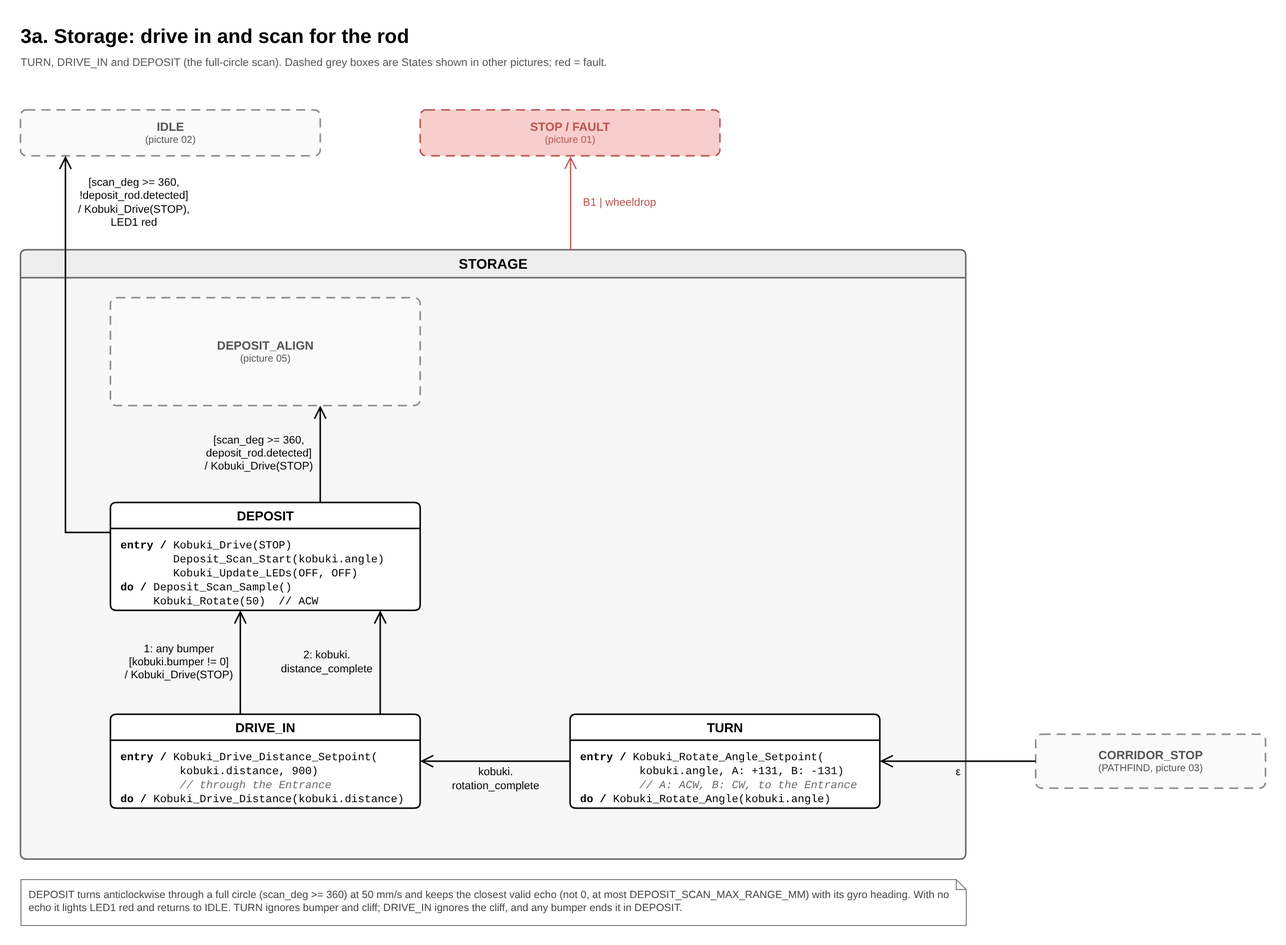
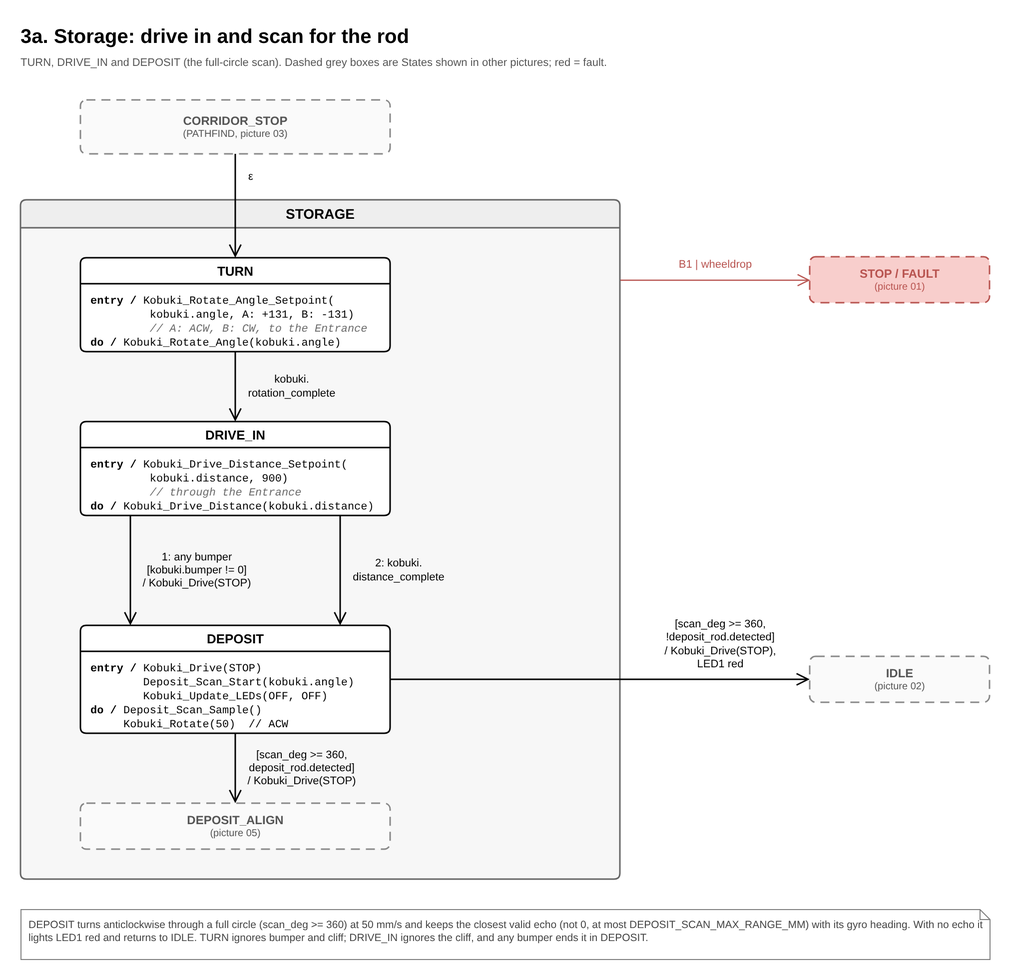
docs: re-lay the FSM pictures as compact vertical stacks
Stack the States in a single column (two where a loop needs it), drop the
empty canvas around them and route the edges again with the same labels, so
the six PNGs are narrow and tall and stay readable when pasted into a report.

Claude-Session: https://claude.ai/code/session_012MSpm5EoDopscPbK9iYYjw

diff --git a/docs/amu_fsm_split.py b/docs/amu_fsm_split.py
@@ -1,5 +1,5 @@
 #!/usr/bin/env python3
-"""Split the AMU FSM diagram into six small PNGs that are easy to read (docs/fsm/*.png).
+"""Split the AMU FSM diagram into six compact, portrait PNGs that are easy to read and paste into a report (docs/fsm/*.png).
 
 Usage:  python3 docs/amu_fsm_split.py [--no-render] [--keep-drawio] [out_dir]
         (default out_dir: docs/fsm; needs `node` + `playwright` for the PNGs, see docs/amu_fsm_render.js)
@@ -12,7 +12,9 @@ that cannot be copied are drawn here:
   * a dashed grey box is a State (or IDLE / STOP / FAULT) that lives in another picture; the edge
     that leaves the picture ends on it, with its original label;
   * a view that cuts through STORAGE or PATHFIND redraws that composite around the States it shows;
-  * 01_overview.png is drawn from scratch (phases only), because the full diagram has no such level.
+  * 01_overview.png is drawn from scratch (phases only), because the full diagram has no such level;
+  * every view re-lays the States out in a tight, mostly vertical stack (the full diagram is one wide
+    canvas), and routes the edges again with the same labels, so the pictures stay small when pasted.
 
 The views:  01_overview  02_search_orient  03_pathfind  04_storage_entry_scan
             05_storage_align_refine  06_storage_distance_adjust
@@ -161,9 +163,11 @@ class View:
         self.under.append(c)
         self.reg[cid] = (x, y, w, h)
 
-    def state(self, cid):
-        """A real State box with its body, at its absolute position."""
+    def state(self, cid, at=None):
+        """A real State box with its body, at its absolute position (or at `at` = (x, y))."""
         x, y, w, h = sabs(cid)
+        if at:
+            x, y = at
         c = copy.deepcopy(S[cid])
         c.set("parent", "1")
         g = c.find("mxGeometry")
@@ -190,9 +194,35 @@ class View:
         v = "<b>%s</b><br><font style=\"font-size:10px\">%s</font>" % (html.escape(name), html.escape(where))
         self._cell(self.boxes, gid, v, GHOST_FAULT if fault else GHOST, x, y, w, h)
 
-    def ghost_of(self, cid, where):
-        x, y, w, h = sabs(cid)
-        self.ghost(cid, x, y, w, h, named(cid), where)
+    def ghost_of(self, cid, where, at=None, h=None):
+        x, y, w, h0 = sabs(cid)
+        if at:
+            x, y = at
+        self.ghost(cid, x, y, w, h or h0, named(cid), where)
+
+    def fault_bar(self, x, y, w, h):
+        """The red STOP / FAULT State, any size."""
+        self.composite("fault", "fault", x, y, w, h)
+        b = copy.deepcopy(S["fault_body"])
+        b.find("mxGeometry").set("width", "%g" % w)
+        self.boxes.append(b)
+
+    def pt(self, cid, side, off=None):
+        """Point on a registered box: side t/b/l/r; off = x (t/b) or y (l/r), default the middle."""
+        x, y, w, h = self.reg[cid]
+        if side == "t":
+            return (x + w / 2 if off is None else off, y)
+        if side == "b":
+            return (x + w / 2 if off is None else off, y + h)
+        if side == "l":
+            return (x, y + h / 2 if off is None else off)
+        return (x + w, y + h / 2 if off is None else off)
+
+    def above(self, x1, x2, y, value, gap=6):
+        return (x1 + x2) / 2, y - gap - lsize(lines_of(value))[1] / 2
+
+    def below(self, x1, x2, y, value, gap=6):
+        return (x1 + x2) / 2, y + gap + lsize(lines_of(value))[1] / 2
 
     # -- edges
     def keep(self, eid):
@@ -258,52 +288,52 @@ class View:
 def overview():
     v = View("01_overview", "AMU parcel-run FSM: the big picture",
              "Phases only. Arrows are the main path; red arrows are faults. The next pictures zoom into each "
-             "phase, one State per box, in the same notation.", 40, 20, 1500)
+             "phase, one State per box, in the same notation.", 40, 20, 920)
     BOX = ("rounded=1;absoluteArcSize=1;arcSize=12;html=1;whiteSpace=wrap;verticalAlign=top;align=center;"
            "spacingTop=8;spacingLeft=8;spacingRight=8;fontSize=11;fontFamily=Helvetica;strokeWidth=1.5;")
-    Y, H, W = 230, 150, 250
-    xs = [120, 500, 880, 1260, 1640]
+    W, H, X = 330, 100, 260
+    cx = X + W / 2
+    ys = [150, 320, 490, 660, 830]
     spec = [
         ("o_idle", "IDLE", "waits for B0 (start button).<br>Leaving it resets the run.", "#ffffff", "#000000"),
-        ("o_search", "SEARCH phase", "SEARCH<br>IDENTIFY<br><i>spin, find the bollard, learn Layout A / B</i>",
+        ("o_search", "SEARCH phase", "SEARCH · IDENTIFY<br><i>spin, find the bollard, learn Layout A / B</i>",
          "#eeeeee", "#666666"),
-        ("o_orient", "ORIENT", "turn to the corridor:<br>A -75°, B +108°<br><i>heading is saved</i>", "#ffffff", "#000000"),
+        ("o_orient", "ORIENT", "turn to the corridor: A -75°, B +108°<br><i>heading is saved</i>", "#ffffff", "#000000"),
         ("o_path", "PATHFIND", "DRIVE · REVERSE · ROTATE<br>CORRIDOR_REVERSE · CORRIDOR_TURN<br>CORRIDOR_STOP",
          "#eeeeee", "#666666"),
         ("o_store", "STORAGE", "TURN · DRIVE_IN · DEPOSIT<br>DEPOSIT_ALIGN · DEPOSIT_REFINE_*<br>"
                                "DEPOSIT_DISTANCE / _REVERSE / _APPROACH", "#eeeeee", "#666666"),
     ]
-    for (cid, name, body, fill, stroke), x in zip(spec, xs):
+    for (cid, name, body, fill, stroke), y in zip(spec, ys):
         v._cell(v.boxes, cid, "<b style=\"font-size:14px\">%s</b><br><br>%s" % (name, body),
-                BOX + "fillColor=%s;strokeColor=%s;" % (fill, stroke), x, Y, W, H)
-    v._cell(v.boxes, "o_start", "", "ellipse;html=1;fillColor=#000000;strokeColor=#000000;strokeWidth=1.5;", 50, Y + H / 2 - 8, 16, 16)
-    FY = 500
+                BOX + "fillColor=%s;strokeColor=%s;" % (fill, stroke), X, y, W, H)
+    v._cell(v.boxes, "o_start", "", "ellipse;html=1;fillColor=#000000;strokeColor=#000000;strokeWidth=1.5;",
+            cx - 8, 106, 16, 16)
+    fx, fw, fy = 790, 210, 320
     v._cell(v.boxes, "o_fault", "<b style=\"font-size:14px\">STOP / FAULT</b><br><b>entry /</b> "
             "<font face=\"Courier New\">Kobuki_Drive(STOP)</font>",
-            BOX + "fillColor=#f8cecc;strokeColor=#b85450;spacingTop=4;", 500, FY, 1390, 56)
+            BOX + "fillColor=#f8cecc;strokeColor=#b85450;", fx, fy, fw, ys[4] + H / 2 + 40 - fy)
 
     def mk(eid, s, t, pts, lines, color=BLACK, at=None, sw=1.5):
-        S[eid] = ET.Element("mxCell", style="strokeColor=%s;strokeWidth=%g;" % (color, sw), value="<br>".join(lines))
-        v.edge(eid, s, t, pts, at=at, color=color, sw=sw)
+        v.edge(eid, s, t, pts, value="<br>".join(lines), at=at, color=color, sw=sw)
 
-    cy_ = Y + H / 2
-    mk("o_e0", "o_start", "o_idle", [(66, cy_), (120, cy_)], [])
+    mk("o_e0", "o_start", "o_idle", [(cx, 122), (cx, ys[0])], [])
     for i, lines in enumerate([["B0"], ["object found;", "IDENTIFY picks", "Layout A / B"], ["turn done;", "heading saved"],
                                ["2nd front cliff", "(corridor == 2)"]]):
-        a, b = xs[i] + W, xs[i + 1]
-        mk("o_e%d" % (i + 1), spec[i][0], spec[i + 1][0], [(a, cy_), (b, cy_)], lines,
-           at=((a + b) / 2, cy_ - 12 - LINE_H * len(lines) / 2))
+        a, b = ys[i] + H, ys[i + 1]
+        mk("o_e%d" % (i + 1), spec[i][0], spec[i + 1][0], [(cx, a), (cx, b)], lines, at=v.right(cx, (a + b) / 2, "<br>".join(lines)))
     ret = ["done: LED1 green + win sound", "(or no rod found: LED1 red)"]
-    mk("o_e5", "o_store", "o_idle", [(xs[4] + W / 2, Y), (xs[4] + W / 2, 160), (xs[0] + W / 2, 160), (xs[0] + W / 2, Y)], ret,
-       at=((xs[0] + xs[4] + W) / 2, 144))
-    for cid, x, lines in [("o_search", xs[1], ["B1 | wheeldrop", "| bumper | cliff"]),
-                          ("o_orient", xs[2], ["B1 | wheeldrop", "| bumper | cliff"]),
-                          ("o_path", xs[3], ["B1 | wheeldrop"]), ("o_store", xs[4], ["B1 | wheeldrop"])]:
-        cx_ = x + W / 2
-        mk("o_f_" + cid, cid, "o_fault", [(cx_, Y + H), (cx_, FY)], lines, RED, at=(cx_ + 8 + 45, 440), sw=1.25)
-    mk("o_e6", "o_fault", "o_idle", [(500, FY + 28), (xs[0] + W / 2, FY + 28), (xs[0] + W / 2, Y + H)], ["ε (next Tick)"],
-       at=(xs[0] + W / 2 + 8 + 40, 440))
-    v.note(120, 590, 1770, 52,
+    mk("o_e5", "o_store", "o_idle", [(X, ys[4] + H / 2), (X - 30, ys[4] + H / 2), (X - 30, ys[0] + H / 2), (X, ys[0] + H / 2)],
+       ret, at=v.left(X - 30, 540, "<br>".join(ret)))
+    for cid, y, lines in [("o_search", ys[1], ["B1 | wheeldrop", "| bumper | cliff"]),
+                          ("o_orient", ys[2], ["B1 | wheeldrop", "| bumper | cliff"]),
+                          ("o_path", ys[3], ["B1 | wheeldrop"]), ("o_store", ys[4], ["B1 | wheeldrop"])]:
+        yy = y + H / 2
+        mk("o_f_" + cid, cid, "o_fault", [(X + W, yy), (fx, yy)], lines, RED, at=v.above(X + W, fx, yy, "<br>".join(lines)), sw=1.25)
+    yy = ys[0] + H / 2
+    mk("o_e6", "o_fault", "o_idle", [(fx + fw / 2, fy), (fx + fw / 2, yy), (X + W, yy)], ["ε (next Tick)"],
+       at=v.above(X + W, fx + fw / 2, yy, "ε (next Tick)"))
+    v.note(40, ys[4] + H + 50, 960, 72,
            "<b>Detailed pictures</b>  02_search_orient: IDLE, SEARCH, IDENTIFY, ORIENT · 03_pathfind: DRIVE, REVERSE, ROTATE, "
            "CORRIDOR_* · 04_storage_entry_scan: TURN, DRIVE_IN, DEPOSIT · 05_storage_align_refine: DEPOSIT_ALIGN, "
            "DEPOSIT_REFINE_TURN / _SAMPLE · 06_storage_distance_adjust: DEPOSIT_DISTANCE / _REVERSE / _APPROACH.<br>"
@@ -317,28 +347,35 @@ def overview():
 def search_orient():
     v = View("02_search_orient", "1. Search and orient",
              "IDLE, SEARCH phase (SEARCH, IDENTIFY) and ORIENT. Dashed grey boxes are States shown in other pictures; "
-             "red = fault. A / B is the Layout learned by IDENTIFY.", 40, 20)
-    v.composite("search_phase", "search_phase", 520, 140, 790, 190)
+             "red = fault. A / B is the Layout learned by IDENTIFY.", 40, 20, 860)
+    X = 170                                   # main column x; boxes are centred on cx
+    cx = X + 150
+    v.ghost("g_dep", 120, 100, 190, 46, "DEPOSIT", "(STORAGE, picture 04)")
+    v.ghost("g_dd", 330, 100, 220, 46, "DEPOSIT_DISTANCE", "(STORAGE, picture 06)")
     v.raw("start")
-    for s in ("idle", "search", "identify", "orient"):
-        v.state(s)
-    x, y, w, h = sabs("fault")
-    v.composite("fault", "fault", x, y, w, h)
-    v.boxes.append(copy.deepcopy(S["fault_body"]))
-    # the fault bar is a swimlane: its body goes in as a child like in the full diagram
-    v.ghost("g_drive", 1836, 590, 300, 46, "DRIVE", "(PATHFIND, picture 03)")
-    v.ghost("g_dep", 40, 590, 150, 46, "DEPOSIT", "(STORAGE, picture 04)")
-    v.ghost("g_dd", 205, 590, 190, 46, "DEPOSIT_DISTANCE", "(STORAGE, picture 06)")
-    for e in ("e_start", "e_idle_search", "e_search_identify", "e_identify_orient", "f_search_giveup", "f_search_phase",
-              "f_orient", "e_fault_idle"):
-        v.keep(e)
-    val_ = val("e_orient_drive")
-    v.edge("e_orient_drive", "orient", "g_drive", [(1986, 310), (1986, 590)], at=v.right(1986, 450, val_))
-    val_ = val("e_deposit_idle")
-    v.edge("e_deposit_idle", "g_dep", "idle", [(115, 590), (115, 334)], at=v.right(115, 462, val_))
-    val_ = val("e_dist_idle")
-    v.edge("e_dist_idle", "g_dd", "idle", [(300, 590), (300, 334)], at=v.right(300, 524, val_))
-    v.note(520, 540, 1000, 56,
+    v.reg["start"] = (110, 319, 16, 16)
+    v.boxes[-1].find("mxGeometry").set("x", "110")
+    v.boxes[-1].find("mxGeometry").set("y", "319")
+    v.state("idle", (X, 250))                                   # 250..404
+    v.composite("search_phase", "search_phase", 140, 464, 360, 358)   # 464..822
+    v.state("search", (cx - 130, 522))                          # 522..602
+    v.state("identify", (X, 672))                               # 672..792
+    v.state("orient", (X, 892))                                 # 892..1012
+    v.ghost("g_drive", X, 1092, 300, 46, "DRIVE", "(PATHFIND, picture 03)")
+    v.fault_bar(680, 500, 220, 510)
+    v.edge("e_start", "start", "idle", [(126, 327), (X, 327)])
+    v.edge("e_deposit_idle", "g_dep", "idle", [(215, 146), (215, 250)], at=v.right(215, 198, val("e_deposit_idle")))
+    v.edge("e_dist_idle", "g_dd", "idle", [(430, 146), (430, 250)], at=v.right(430, 198, val("e_dist_idle")))
+    v.edge("e_idle_search", "idle", "search", [(235, 404), (235, 522)], at=v.right(235, 434, val("e_idle_search")))
+    v.edge("e_search_identify", "search", "identify", [(cx, 602), (cx, 672)], at=v.right(cx, 637, val("e_search_identify")))
+    v.edge("e_identify_orient", "identify", "orient", [(cx, 792), (cx, 892)], at=v.right(cx, 857, val("e_identify_orient")))
+    v.edge("e_orient_drive", "orient", "g_drive", [(cx, 1012), (cx, 1092)], at=v.right(cx, 1052, val("e_orient_drive")))
+    v.edge("f_search_giveup", "search", "fault", [(cx + 130, 562), (680, 562)],
+           at=v.above(cx + 130, 680, 562, val("f_search_giveup")))
+    v.edge("f_search_phase", "search_phase", "fault", [(500, 720), (680, 720)], at=v.above(500, 680, 720, val("f_search_phase")))
+    v.edge("f_orient", "orient", "fault", [(X + 300, 952), (680, 952)], at=v.above(X + 300, 680, 952, val("f_orient")))
+    v.edge("e_fault_idle", "fault", "idle", [(790, 500), (790, 327), (X + 300, 327)], at=v.above(X + 300, 790, 327, "ε"))
+    v.note(60, 1170, 840, 62,
            "SEARCH turns anticlockwise on the spot from B0 and reads the ultrasonic once per Tick. A Detection is "
            "range_mm &lt; 750. IDENTIFY stops on the first Detection and sets the Layout: B when range_mm &lt; 575, "
            "otherwise A (LED1 red for A, yellow for B). There is no centring: ORIENT turns from wherever SEARCH stopped. "
@@ -350,23 +387,38 @@ def search_orient():
 def pathfind():
     v = View("03_pathfind", "2. Pathfind",
              "DRIVE, REVERSE, ROTATE and the CORRIDOR_ States. Dashed grey boxes are States shown in other pictures; "
-             "red = fault.", 700, 380)
-    x, y, w, h = sabs("pathfind")
-    v.composite("pathfind", "pathfind", x, y, w, h)
+             "red = fault.", 40, 20, 1090)
+    LX, RX = 190, 610                                   # left (corridor) and right (recover) columns, 320 wide
+    v.composite("pathfind", "pathfind", 40, 200, 1090, 652)
+    v.state("p_drive", (RX, 270))                       # 270..350
+    v.state("p_reverse", (RX, 500))                     # 500..594
+    v.state("p_rotate", (RX, 674))                      # 674..798
+    v.state("p_creverse", (LX, 400))                    # 400..494
+    v.state("p_cturn", (LX, 574))                       # 574..698
+    v.state("p_cstop", (110, 768))                      # 768..822 (230 wide)
     v.raw("p_choice")
-    for s in ("p_drive", "p_creverse", "p_cturn", "p_cstop", "p_reverse", "p_rotate"):
-        v.state(s)
-    v.ghost("g_fault", 1226, 500, 400, 46, "STOP / FAULT", "(picture 01)", fault=True)
-    v.ghost("g_orient", 1836, 480, 300, 46, "ORIENT", "(picture 02)")
-    v.ghost("g_turn", 700, 1525, 230, 54, "TURN", "(STORAGE, picture 04)")
-    for e in ("p_drive_choice", "p_choice_creverse", "p_choice_stop", "p_creverse_cturn", "p_cturn_drive",
-              "p_drive_reverse", "p_reverse_rotate", "p_rotate_drive"):
-        v.keep(e)
-    v.edge("f_pathfind", "pathfind", "g_fault", [(1426, 620), (1426, 546)], at=v.right(1426, 583, val("f_pathfind")))
-    v.edge("e_orient_drive", "g_orient", "p_drive", [(1986, 526), (1986, 700)], at=v.right(1986, 575, val("e_orient_drive")))
-    v.edge("p_stop_turn", "p_cstop", "g_turn", [(1056, 1552), (930, 1552)], at=(993, 1538))
-    pn = S["pathfind_note"]
-    v.note(1326, 1635, 820, 58, pn.get("value"))
+    v.reg["p_choice"] = (336, 296, 28, 28)
+    g = v.boxes[-1].find("mxGeometry")
+    g.set("x", "336")
+    g.set("y", "296")
+    v.ghost("g_fault", LX, 96, 320, 46, "STOP / FAULT", "(picture 01)", fault=True)
+    v.ghost("g_orient", RX, 96, 320, 46, "ORIENT", "(picture 02)")
+    v.ghost("g_turn", 110, 900, 230, 46, "TURN", "(STORAGE, picture 04)")
+    v.edge("f_pathfind", "pathfind", "g_fault", [(350, 200), (350, 142)], at=v.right(350, 171, val("f_pathfind")))
+    v.edge("e_orient_drive", "g_orient", "p_drive", [(770, 142), (770, 270)], at=v.right(770, 171, val("e_orient_drive")))
+    v.edge("p_drive_choice", "p_drive", "p_choice", [(RX, 310), (364, 310)], at=v.above(364, RX, 310, val("p_drive_choice")))
+    v.edge("p_choice_creverse", "p_choice", "p_creverse", [(350, 324), (350, 400)], at=v.right(350, 362, val("p_choice_creverse")))
+    v.edge("p_choice_stop", "p_choice", "p_cstop", [(336, 310), (140, 310), (140, 768)],
+           at=v.above(140, 336, 310, val("p_choice_stop")))
+    v.edge("p_creverse_cturn", "p_creverse", "p_cturn", [(350, 494), (350, 574)], at=v.right(350, 534, val("p_creverse_cturn")))
+    v.edge("p_cturn_drive", "p_cturn", "p_drive", [(LX + 320, 636), (570, 636), (570, 335), (RX, 335)],
+           at=v.right(570, 420, val("p_cturn_drive")))
+    v.edge("p_drive_reverse", "p_drive", "p_reverse", [(770, 350), (770, 500)], at=v.right(770, 425, val("p_drive_reverse")))
+    v.edge("p_reverse_rotate", "p_reverse", "p_rotate", [(770, 594), (770, 674)], at=v.right(770, 634, val("p_reverse_rotate")))
+    v.edge("p_rotate_drive", "p_rotate", "p_drive", [(RX + 320, 736), (965, 736), (965, 310), (RX + 320, 310)],
+           at=v.right(965, 520, val("p_rotate_drive")))
+    v.edge("p_stop_turn", "p_cstop", "g_turn", [(225, 822), (225, 900)], at=v.right(225, 876, "ε"))
+    v.note(40, 980, 1090, 50, S["pathfind_note"].get("value"))
     return v
 
 
@@ -374,19 +426,27 @@ def pathfind():
 def storage_entry():
     v = View("04_storage_entry_scan", "3a. Storage: drive in and scan for the rod",
              "TURN, DRIVE_IN and DEPOSIT (the full-circle scan). Dashed grey boxes are States shown in other pictures; "
-             "red = fault.", 40, 810)
-    v.composite("storage", "storage", 40, 1040, 946, 610)
-    for s in ("turn", "drive_in", "deposit"):
-        v.state(s)
-    v.ghost_of("d_align", "(picture 05)")
-    v.ghost_of("p_cstop", "(PATHFIND, picture 03)")
-    v.ghost("g_idle", 40, 900, 300, 46, "IDLE", "(picture 02)")
-    v.ghost("g_fault", 440, 900, 300, 46, "STOP / FAULT", "(picture 01)", fault=True)
-    for e in ("p_stop_turn", "e_turn_drivein", "e_drivein_deposit_bump", "e_drivein_deposit_done", "e_deposit_align"):
-        v.keep(e)
-    v.edge("e_deposit_idle", "deposit", "g_idle", [(130, 1323), (85, 1323), (85, 946)], at=v.right(85, 993, val("e_deposit_idle")))
-    v.edge("f_storage", "storage", "g_fault", [(590, 1040), (590, 946)], at=v.right(590, 993, val("f_storage")))
-    v.note(40, 1670, 946, 46,
+             "red = fault.", 40, 20, 920)
+    X = 100
+    cx = X + 155
+    v.ghost("p_cstop", X, 100, 310, 54, "CORRIDOR_STOP", "(PATHFIND, picture 03)")
+    v.composite("storage", "storage", 40, 200, 600, 680)           # 200..880
+    v.state("turn", (X, 258))                                       # 258..352
+    v.state("drive_in", (X, 422))                                   # 422..516
+    v.state("deposit", (X, 626))                                    # 626..734
+    v.ghost("d_align", X, 804, 310, 46, "DEPOSIT_ALIGN", "(picture 05)")
+    v.ghost("g_idle", 830, 657, 180, 46, "IDLE", "(picture 02)")
+    v.ghost("g_fault", 830, 257, 180, 46, "STOP / FAULT", "(picture 01)", fault=True)
+    v.edge("p_stop_turn", "p_cstop", "turn", [(cx, 154), (cx, 258)], at=v.right(cx, 177, "ε"))
+    v.edge("e_turn_drivein", "turn", "drive_in", [(cx, 352), (cx, 422)], at=v.right(cx, 387, val("e_turn_drivein")))
+    v.edge("e_drivein_deposit_bump", "drive_in", "deposit", [(150, 516), (150, 626)],
+           at=v.right(150, 571, val("e_drivein_deposit_bump")))
+    v.edge("e_drivein_deposit_done", "drive_in", "deposit", [(360, 516), (360, 626)],
+           at=v.right(360, 571, val("e_drivein_deposit_done")))
+    v.edge("e_deposit_align", "deposit", "d_align", [(cx, 734), (cx, 804)], at=v.right(cx, 769, val("e_deposit_align")))
+    v.edge("e_deposit_idle", "deposit", "g_idle", [(X + 310, 680), (830, 680)], at=v.above(650, 830, 680, val("e_deposit_idle")))
+    v.edge("f_storage", "storage", "g_fault", [(640, 280), (830, 280)], at=v.above(640, 830, 280, val("f_storage")))
+    v.note(40, 910, 970, 50,
            "DEPOSIT turns anticlockwise through a full circle (scan_deg &gt;= 360) at 50 mm/s and keeps the closest valid echo "
            "(not 0, at most DEPOSIT_SCAN_MAX_RANGE_MM) with its gyro heading. With no echo it lights LED1 red and returns to "
            "IDLE. TURN ignores bumper and cliff; DRIVE_IN ignores the cliff, and any bumper ends it in DEPOSIT.")
@@ -397,18 +457,25 @@ def storage_entry():
 def storage_refine():
     v = View("05_storage_align_refine", "3b. Storage: align to the rod and refine the heading",
              "DEPOSIT_ALIGN and the refine sweep (DEPOSIT_REFINE_TURN / DEPOSIT_REFINE_SAMPLE). Dashed grey boxes are States "
-             "shown in other pictures; red = fault.", 40, 620)
-    v.composite("storage", "storage", 40, 830, 946, 590)
-    for s in ("d_align", "d_rturn", "d_rsample"):
-        v.state(s)
-    v.ghost_of("deposit", "(picture 04)")
-    v.ghost_of("d_dist", "(DISTANCE ADJUST, picture 06)")
-    v.ghost("g_fault", 400, 700, 640, 46, "STOP / FAULT", "(picture 01)", fault=True)
-    for e in ("e_deposit_align", "e_align_rturn", "e_align_dist", "e_rturn_rsample", "e_rsample_rturn", "e_rsample_align"):
-        v.keep(e)
-    v.edge("f_sweep", "d_rsample", "g_fault", [(900, 1347), (945, 1347), (945, 746)], at=v.left(945, 935, val("f_sweep")))
-    v.edge("f_storage", "storage", "g_fault", [(513, 830), (513, 746)], at=v.right(513, 788, val("f_storage")))
-    v.note(40, 1440, 946, 76,
+             "shown in other pictures; red = fault.", 40, 20, 1030)
+    LX, RX = 80, 640
+    v.ghost("g_fault", 640, 96, 400, 46, "STOP / FAULT", "(picture 01)", fault=True)
+    v.composite("storage", "storage", 40, 200, 1030, 533)           # 200..733
+    v.ghost_of("deposit", "(picture 04)", at=(LX, 258), h=46)       # 258..304
+    v.state("d_align", (LX, 384))                                   # 384..492
+    v.ghost_of("d_dist", "(DISTANCE ADJUST, picture 06)", at=(LX, 582), h=46)   # 582..628
+    v.state("d_rturn", (RX, 367))                                   # 367..461
+    v.state("d_rsample", (RX, 581))                                 # 581..703
+    v.edge("f_storage", "storage", "g_fault", [(700, 200), (700, 142)], at=v.right(700, 171, val("f_storage")))
+    v.edge("e_deposit_align", "deposit", "d_align", [(235, 304), (235, 384)], at=v.right(235, 344, val("e_deposit_align")))
+    v.edge("e_align_dist", "d_align", "d_dist", [(235, 492), (235, 582)], at=v.right(235, 537, val("e_align_dist")))
+    v.edge("e_align_rturn", "d_align", "d_rturn", [(LX + 310, 414), (RX, 414)], at=v.above(LX + 310, RX, 414, val("e_align_rturn")))
+    v.edge("e_rturn_rsample", "d_rturn", "d_rsample", [(910, 461), (910, 581)], at=v.right(910, 521, val("e_rturn_rsample")))
+    v.edge("e_rsample_rturn", "d_rsample", "d_rturn", [(700, 581), (700, 461)], at=v.right(700, 521, val("e_rsample_rturn")))
+    v.edge("e_rsample_align", "d_rsample", "d_align", [(RX, 642), (475, 642), (475, 469), (LX + 310, 469)],
+           at=v.right(475, 555, val("e_rsample_align")))
+    v.edge("f_sweep", "d_rsample", "g_fault", [(RX + 310, 670), (1020, 670), (1020, 142)], at=v.left(1020, 290, val("f_sweep")))
+    v.note(40, 760, 1030, 58,
            "DEPOSIT_ALIGN turns the short way to the saved heading. The first time, within 100 ticks, it starts the refine "
            "sweep; once the heading is refined, within 50 ticks, it goes to DEPOSIT_DISTANCE. The sweep visits 26 headings from "
            "-25 to +25 deg around the coarse heading, 2 deg apart. DEPOSIT_REFINE_TURN turns to a step at 35 mm/s; "
@@ -422,21 +489,26 @@ def storage_refine():
 def storage_distance():
     v = View("06_storage_distance_adjust", "3c. Storage: adjust the distance to the rod",
              "DEPOSIT_DISTANCE, DEPOSIT_REVERSE and DEPOSIT_APPROACH. Dashed grey boxes are States shown in other pictures; "
-             "red = fault.", 40, 380)
-    v.composite("storage", "storage", 40, 620, 946, 616)
-    v.composite("dist_group", "dist_group", 110, 668, 810, 340)
-    for s in ("d_dist", "d_app", "d_rev"):
-        v.state(s)
-    v.ghost_of("d_align", "(picture 05)")
-    v.ghost("g_idle", 40, 480, 300, 46, "IDLE", "(picture 02)")
-    v.ghost("g_fault", 400, 480, 640, 46, "STOP / FAULT", "(picture 01)", fault=True)
-    for e in ("e_align_dist", "e_dist_rev", "e_rev_dist", "e_dist_app", "e_app_dist"):
-        v.keep(e)
-    v.edge("e_dist_idle", "d_dist", "g_idle", [(310, 862), (310, 526)], at=v.left(310, 770, val("e_dist_idle")))
-    v.edge("f_dist_any", "dist_group", "g_fault", [(430, 668), (430, 526)], at=v.left(430, 573, val("f_dist_any")))
-    v.edge("f_dist_range", "dist_group", "g_fault", [(640, 668), (640, 526)], at=v.right(640, 573, val("f_dist_range")))
-    v.edge("f_storage", "storage", "g_fault", [(900, 620), (900, 526)], at=v.right(900, 573, val("f_storage")))
-    v.note(40, 1256, 946, 58,
+             "red = fault.", 40, 20, 950)
+    LX, RX = 100, 620
+    v.ghost("g_fault", 400, 96, 560, 46, "STOP / FAULT", "(picture 01)", fault=True)
+    v.composite("storage", "storage", 40, 200, 950, 540)           # 200..740
+    v.ghost_of("d_align", "(picture 05)", at=(LX, 258), h=46)      # 258..304
+    v.composite("dist_group", "dist_group", 70, 370, 890, 340)     # 370..710
+    v.state("d_app", (RX, 428))                                    # 428..508
+    v.state("d_dist", (LX, 520))                                   # 520..642
+    v.state("d_rev", (RX, 600))                                    # 600..680
+    v.ghost("g_idle", LX, 810, 310, 46, "IDLE", "(picture 02)")
+    v.edge("f_dist_any", "dist_group", "g_fault", [(440, 370), (440, 142)], at=v.right(440, 173, val("f_dist_any")))
+    v.edge("f_dist_range", "dist_group", "g_fault", [(700, 370), (700, 142)], at=v.right(700, 173, val("f_dist_range")))
+    v.edge("f_storage", "storage", "g_fault", [(900, 200), (900, 142)], at=v.right(900, 173, val("f_storage")))
+    v.edge("e_align_dist", "d_align", "d_dist", [(200, 304), (200, 520)], at=v.right(200, 337, val("e_align_dist")))
+    v.edge("e_dist_app", "d_dist", "d_app", [(330, 520), (330, 455), (RX, 455)], at=v.above(330, RX, 455, val("e_dist_app")))
+    v.edge("e_app_dist", "d_app", "d_dist", [(RX, 490), (380, 490), (380, 520)], at=v.below(380, RX, 490, val("e_app_dist")))
+    v.edge("e_dist_rev", "d_dist", "d_rev", [(LX + 310, 620), (RX, 620)], at=v.above(LX + 310, RX, 620, val("e_dist_rev")))
+    v.edge("e_rev_dist", "d_rev", "d_dist", [(RX, 638), (LX + 310, 638)], at=v.below(LX + 310, RX, 638, val("e_rev_dist")))
+    v.edge("e_dist_idle", "d_dist", "g_idle", [(255, 642), (255, 810)], at=v.right(255, 676, val("e_dist_idle")))
+    v.note(40, 880, 950, 58,
            "DEPOSIT_DISTANCE holds still for 15 Ticks (about 300 ms) so the 10 Hz sonar catches up, then reads deposit_range_mm "
            "against the target 410 mm +/- 10 mm: too close backs off in DEPOSIT_REVERSE until 510 mm (a 100 mm margin) at "
            "50 mm/s, too far creeps in DEPOSIT_APPROACH at 35 mm/s until 420 mm, so the last correction is always made moving "
